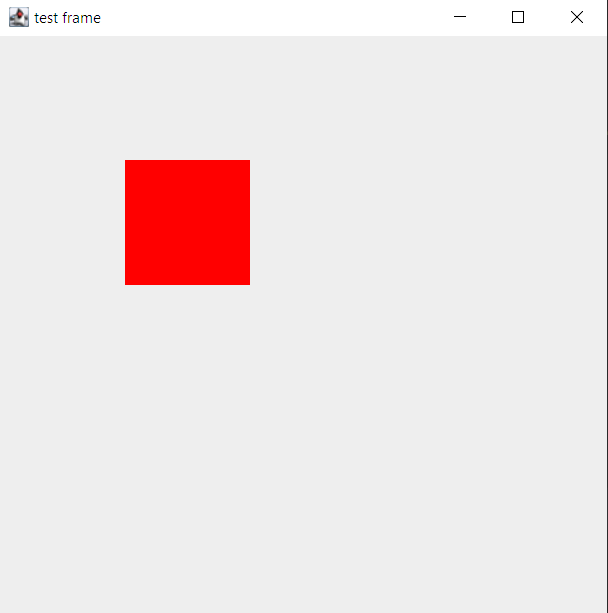
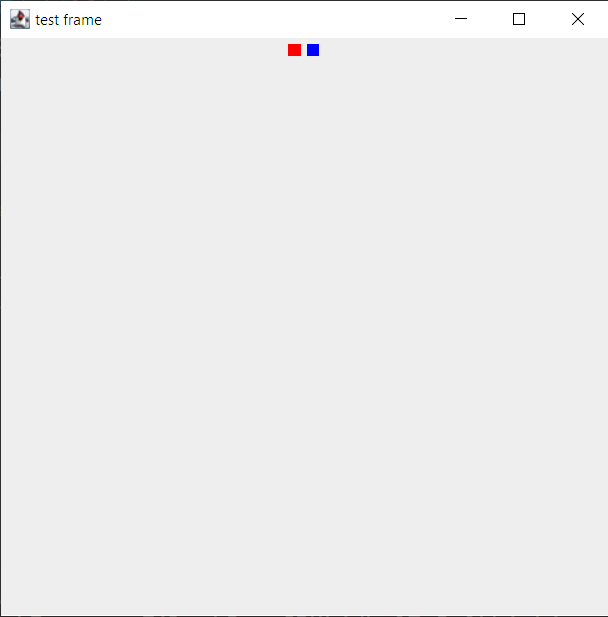
adding another panel in layout

diff --git a/javaPanel/src/Test.java b/javaPanel/src/Test.java
@@ -1,18 +1,21 @@
 import javax.swing.*;
 import java.awt.*;
 
-public class Test extends JPanel {
+public class Test {
     Test(){
         JFrame f=new JFrame("test frame");
         f.setSize(500,500);
 
-        JPanel p=new JPanel();
-        p.setBounds(100,100,100,100);
+        JPanel p1=new JPanel();
+        p1.setBackground(Color.RED);
 
-        f.setLayout(null);
-        p.setBackground(Color.RED);
+        JPanel p2=new JPanel();
+        p2.setBackground(Color.BLUE);
+
+        f.setLayout(new FlowLayout(FlowLayout.CENTER));
         f.setVisible(true);
-        f.add(p);
+        f.add(p1);
+        f.add(p2);
     }
 
     public static void main(String[] args) {
